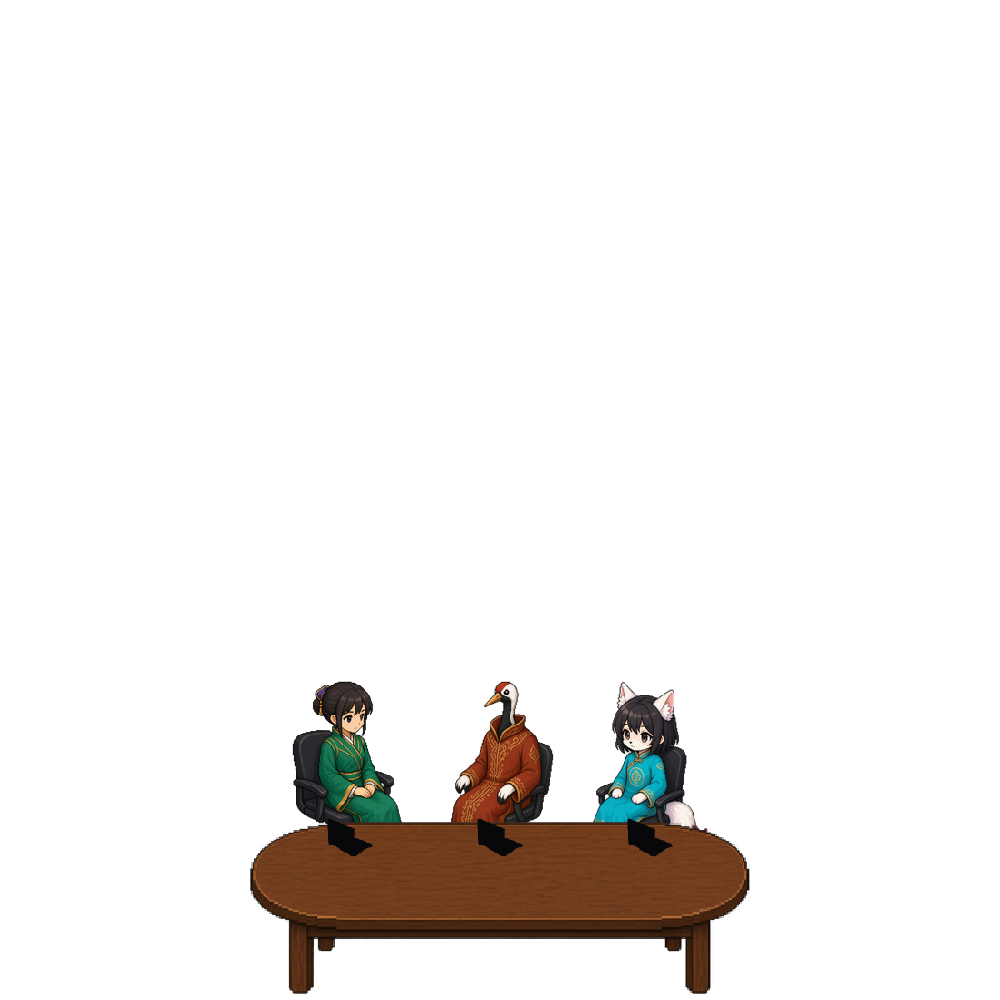
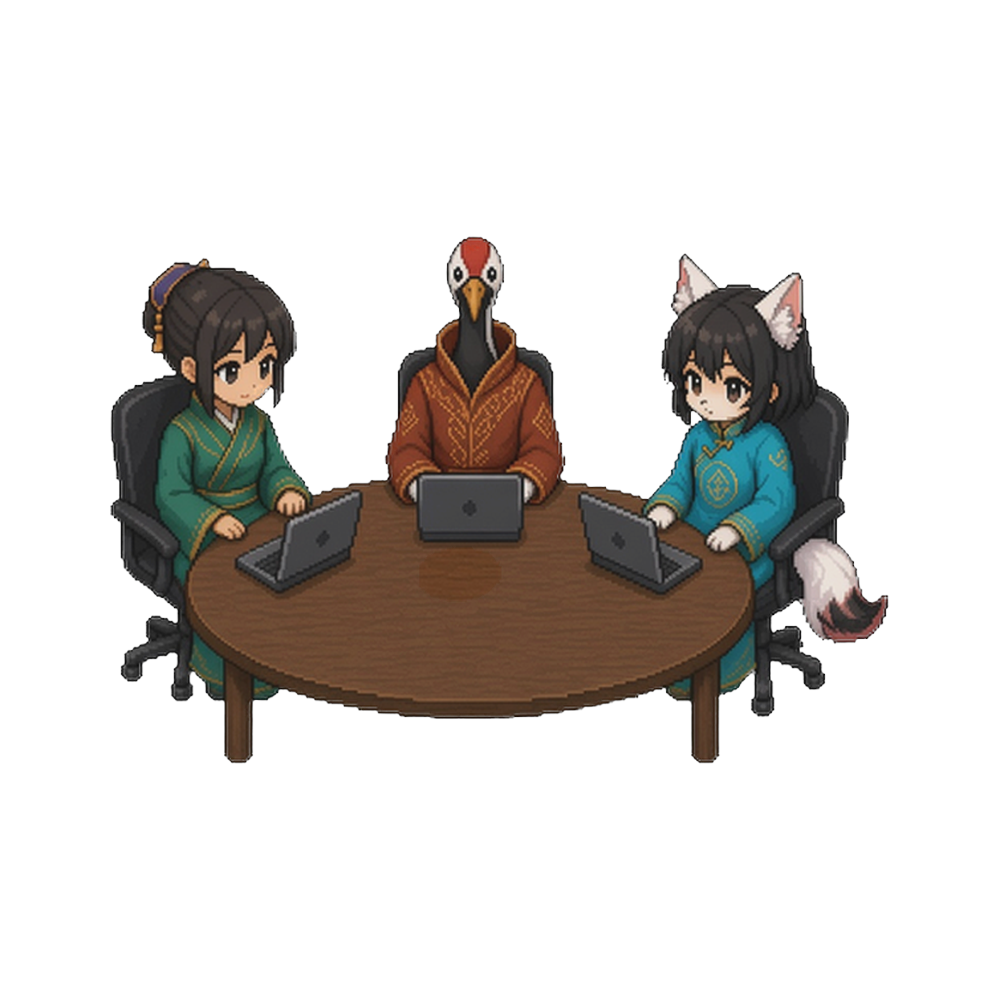
pixel map: restore dba2641 meeting people; CSS-only table nudge up
Look t841: do not remake people. Restore vignette-2/3/4 from dba2641
(good facing/chairs/layers). Raise .meeting-stage bottom via CSS only;
retag names for restored layout; cache vig8.

diff --git a/ai-office-pixel-map.html b/ai-office-pixel-map.html
@@ -436,12 +436,12 @@
     .seat.front.face-in-left .sprite { transform: scaleX(1); }
 
 
-    /* Meeting vignette: shared oval table at BOTTOM of frame; half-scale via pad.
-       Size standard = bottom room 磁鐵改靚. Tags % relative to vignette-wrap (= image). */
+    /* Meeting vignette: people from dba2641; CSS only nudges stage UP (table closer to room mid).
+       Do not remake baked people PNGs. Tags % relative to vignette-wrap (= image). */
     .meeting-stage.vignette-mode {
-      width: min(320px, 72%);
+      width: min(400px, 76%);
       height: auto;
-      bottom: 4px;
+      bottom: 28px; /* table+group up a little vs flush-bottom */
       position: absolute;
       left: 50%;
       transform: translateX(-50%);
@@ -500,7 +500,7 @@
       .room.meeting { min-height: 560px; }
       .room.meeting .progress { height: 190px; bottom: auto; }
       .meeting-stage { height: 150px; width: min(340px, 90%); }
-      .meeting-stage.vignette-mode { width: min(280px, 88%); height: auto; }
+      .meeting-stage.vignette-mode { width: min(360px, 90%); height: auto; bottom: 22px; }
       .meeting-vignette { width: 100%; height: auto; }
       .meeting-table { width: min(170px, 50%); }
       .seat { width: 64px; }
@@ -568,9 +568,9 @@
           tint: '#ddd6fe',
           vignette: 'meeting-vignette-2.png',
           members: [
-            /* tags tight beside head/shoulder (side: right=left-of-sprite, left=right-of-sprite) */
-            { name: '智子', seat: 'zhizi-seat', tag: { left: 30.9, top: 71.2, side: 'right' } },
-            { name: '決策官', seat: 'decision-seat', tag: { left: 68.7, top: 71.2, side: 'left' } }
+            /* tags for dba2641 vignette people (heads near top); center = above head */
+            { name: '智子', seat: 'zhizi-seat', tag: { left: 38, top: 8, side: 'center' } },
+            { name: '決策官', seat: 'decision-seat', tag: { left: 62, top: 6, side: 'center' } }
           ],
           blurb: '會議室 · 群組 · 智子、決策官'
         }
@@ -582,10 +582,10 @@
           tint: '#a5f3fc',
           vignette: 'meeting-vignette-4.png',
           members: [
-            { name: '智子', seat: 'zhizi-seat', tag: { left: 30.9, top: 66.2, side: 'right' } },
-            { name: '藍圖官', seat: 'blueprint-seat', tag: { left: 68.7, top: 66.2, side: 'left' } },
-            { name: '鑄造使', seat: 'forge-seat', tag: { left: 30.8, top: 82.6, side: 'right' } },
-            { name: '文案官', seat: 'copywriter-seat', tag: { left: 68.5, top: 82.6, side: 'left' } }
+            { name: '智子', seat: 'zhizi-seat', tag: { left: 36, top: 6, side: 'center' } },
+            { name: '藍圖官', seat: 'blueprint-seat', tag: { left: 64, top: 6, side: 'center' } },
+            { name: '鑄造使', seat: 'forge-seat', tag: { left: 22, top: 70, side: 'center' } },
+            { name: '文案官', seat: 'copywriter-seat', tag: { left: 78, top: 70, side: 'center' } }
           ],
           blurb: '會議室 · 群組 · 智子、藍圖官、鑄造使、文案官'
         },
@@ -595,9 +595,9 @@
           tint: '#fbcfe8',
           vignette: 'meeting-vignette-3.png',
           members: [
-            { name: '智子', seat: 'zhizi-seat', tag: { left: 28.9, top: 71.2, side: 'right' } },
-            { name: '藍圖官', seat: 'blueprint-seat', tag: { left: 50.0, top: 68.2, side: 'center' } },
-            { name: '文案官', seat: 'copywriter-seat', tag: { left: 71.1, top: 71.2, side: 'left' } }
+            { name: '智子', seat: 'zhizi-seat', tag: { left: 32, top: 6, side: 'center' } },
+            { name: '藍圖官', seat: 'blueprint-seat', tag: { left: 50, top: 4, side: 'center' } },
+            { name: '文案官', seat: 'copywriter-seat', tag: { left: 68, top: 6, side: 'center' } }
           ],
           blurb: '會議室 · 群組 · 智子、藍圖官、文案官'
         }
@@ -609,7 +609,7 @@
     const FURN_V = 'furn31';
     const SPRITE_V = 'meet13';
     const SEAT_V = 'seat12';
-    const VIGNETTE_V = 'vig7';
+    const VIGNETTE_V = 'vig8';
 
 
     function checker(tint) {
